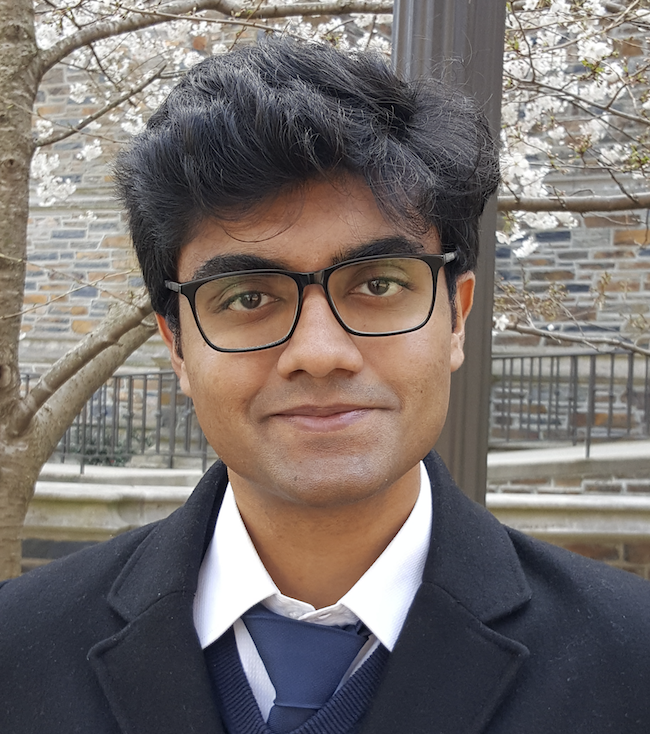
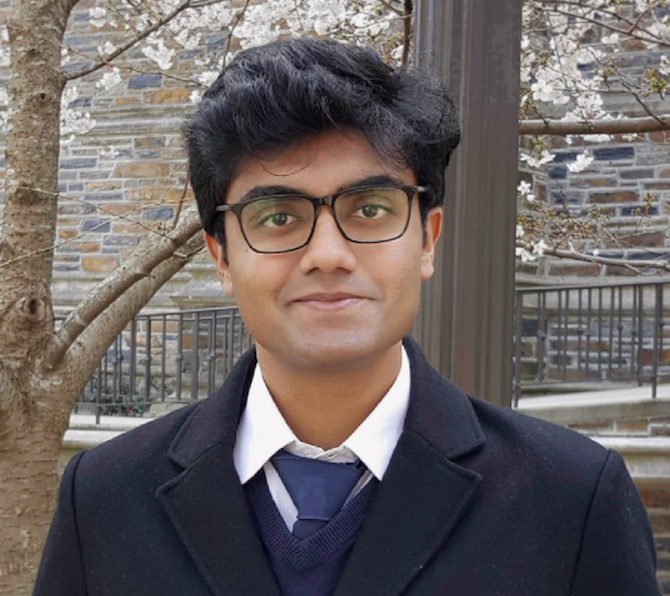
changed dp.

diff --git a/public/post/2015-07-23-r-rmarkdown/index.html b/public/post/2015-07-23-r-rmarkdown/index.html
@@ -651,7 +651,7 @@ Figure 1: A fancy pie chart.
   <div class="media author-card" itemscope itemtype="http://schema.org/Person">
     
       
-      <img class="portrait mr-3" src="/authors/admin/avatar_hud030da4b2acd3f8f5689e16afdfd07fa_951725_250x250_fill_q90_lanczos_center.jpg" itemprop="image" alt="Avatar">
+      <img class="portrait mr-3" src="/authors/admin/avatar_huee385cce7e1419cf141fee97b6d9f0ce_780583_250x250_fill_q90_lanczos_center.jpg" itemprop="image" alt="Avatar">
     
 
     <div class="media-body">

diff --git a/public/post/jupyter/index.html b/public/post/jupyter/index.html
@@ -677,7 +677,7 @@ rm Untitled.md
   <div class="media author-card" itemscope itemtype="http://schema.org/Person">
     
       
-      <img class="portrait mr-3" src="/authors/admin/avatar_hud030da4b2acd3f8f5689e16afdfd07fa_951725_250x250_fill_q90_lanczos_center.jpg" itemprop="image" alt="Avatar">
+      <img class="portrait mr-3" src="/authors/admin/avatar_huee385cce7e1419cf141fee97b6d9f0ce_780583_250x250_fill_q90_lanczos_center.jpg" itemprop="image" alt="Avatar">
     
 
     <div class="media-body">

diff --git a/public/post/first-data-visualization/index.html b/public/post/first-data-visualization/index.html
@@ -608,7 +608,7 @@
   <div class="media author-card" itemscope itemtype="http://schema.org/Person">
     
       
-      <img class="portrait mr-3" src="/authors/admin/avatar_hud030da4b2acd3f8f5689e16afdfd07fa_951725_250x250_fill_q90_lanczos_center.jpg" itemprop="image" alt="Avatar">
+      <img class="portrait mr-3" src="/authors/admin/avatar_huee385cce7e1419cf141fee97b6d9f0ce_780583_250x250_fill_q90_lanczos_center.jpg" itemprop="image" alt="Avatar">
     
 
     <div class="media-body">

diff --git a/public/post/getting-started/index.html b/public/post/getting-started/index.html
@@ -853,7 +853,7 @@
   <div class="media author-card" itemscope itemtype="http://schema.org/Person">
     
       
-      <img class="portrait mr-3" src="/authors/admin/avatar_hud030da4b2acd3f8f5689e16afdfd07fa_951725_250x250_fill_q90_lanczos_center.jpg" itemprop="image" alt="Avatar">
+      <img class="portrait mr-3" src="/authors/admin/avatar_huee385cce7e1419cf141fee97b6d9f0ce_780583_250x250_fill_q90_lanczos_center.jpg" itemprop="image" alt="Avatar">
     
 
     <div class="media-body">

diff --git a/public/project/external-project/index.html b/public/project/external-project/index.html
@@ -639,7 +639,7 @@
   <div class="media author-card" itemscope itemtype="http://schema.org/Person">
     
       
-      <img class="portrait mr-3" src="/authors/admin/avatar_hud030da4b2acd3f8f5689e16afdfd07fa_951725_250x250_fill_q90_lanczos_center.jpg" itemprop="image" alt="Avatar">
+      <img class="portrait mr-3" src="/authors/admin/avatar_huee385cce7e1419cf141fee97b6d9f0ce_780583_250x250_fill_q90_lanczos_center.jpg" itemprop="image" alt="Avatar">
     
 
     <div class="media-body">

diff --git a/public/project/internal-project/index.html b/public/project/internal-project/index.html
@@ -666,7 +666,7 @@
   <div class="media author-card" itemscope itemtype="http://schema.org/Person">
     
       
-      <img class="portrait mr-3" src="/authors/admin/avatar_hud030da4b2acd3f8f5689e16afdfd07fa_951725_250x250_fill_q90_lanczos_center.jpg" itemprop="image" alt="Avatar">
+      <img class="portrait mr-3" src="/authors/admin/avatar_huee385cce7e1419cf141fee97b6d9f0ce_780583_250x250_fill_q90_lanczos_center.jpg" itemprop="image" alt="Avatar">
     
 
     <div class="media-body">

diff --git a/public/publication/conference-paper/index.html b/public/publication/conference-paper/index.html
@@ -785,7 +785,7 @@
   <div class="media author-card" itemscope itemtype="http://schema.org/Person">
     
       
-      <img class="portrait mr-3" src="/authors/admin/avatar_hud030da4b2acd3f8f5689e16afdfd07fa_951725_250x250_fill_q90_lanczos_center.jpg" itemprop="image" alt="Avatar">
+      <img class="portrait mr-3" src="/authors/admin/avatar_huee385cce7e1419cf141fee97b6d9f0ce_780583_250x250_fill_q90_lanczos_center.jpg" itemprop="image" alt="Avatar">
     
 
     <div class="media-body">

diff --git a/public/publication/journal-article/index.html b/public/publication/journal-article/index.html
@@ -723,7 +723,7 @@
   <div class="media author-card" itemscope itemtype="http://schema.org/Person">
     
       
-      <img class="portrait mr-3" src="/authors/admin/avatar_hud030da4b2acd3f8f5689e16afdfd07fa_951725_250x250_fill_q90_lanczos_center.jpg" itemprop="image" alt="Avatar">
+      <img class="portrait mr-3" src="/authors/admin/avatar_huee385cce7e1419cf141fee97b6d9f0ce_780583_250x250_fill_q90_lanczos_center.jpg" itemprop="image" alt="Avatar">
     
 
     <div class="media-body">

diff --git a/public/publication/preprint/index.html b/public/publication/preprint/index.html
@@ -760,7 +760,7 @@
   <div class="media author-card" itemscope itemtype="http://schema.org/Person">
     
       
-      <img class="portrait mr-3" src="/authors/admin/avatar_hud030da4b2acd3f8f5689e16afdfd07fa_951725_250x250_fill_q90_lanczos_center.jpg" itemprop="image" alt="Avatar">
+      <img class="portrait mr-3" src="/authors/admin/avatar_huee385cce7e1419cf141fee97b6d9f0ce_780583_250x250_fill_q90_lanczos_center.jpg" itemprop="image" alt="Avatar">
     
 
     <div class="media-body">

diff --git a/public/talk/example/index.html b/public/talk/example/index.html
@@ -724,7 +724,7 @@
   <div class="media author-card" itemscope itemtype="http://schema.org/Person">
     
       
-      <img class="portrait mr-3" src="/authors/admin/avatar_hud030da4b2acd3f8f5689e16afdfd07fa_951725_250x250_fill_q90_lanczos_center.jpg" itemprop="image" alt="Avatar">
+      <img class="portrait mr-3" src="/authors/admin/avatar_huee385cce7e1419cf141fee97b6d9f0ce_780583_250x250_fill_q90_lanczos_center.jpg" itemprop="image" alt="Avatar">
     
 
     <div class="media-body">

diff --git a/public/authors/admin/index.html b/public/authors/admin/index.html
@@ -413,7 +413,7 @@
 
       
       
-      <img class="portrait" src="/authors/admin/avatar_hud030da4b2acd3f8f5689e16afdfd07fa_951725_250x250_fill_q90_lanczos_center.jpg" itemprop="image" alt="Avatar">
+      <img class="portrait" src="/authors/admin/avatar_huee385cce7e1419cf141fee97b6d9f0ce_780583_250x250_fill_q90_lanczos_center.jpg" itemprop="image" alt="Avatar">
       
 
       <div class="portrait-title">

diff --git a/public/index.html b/public/index.html
@@ -451,7 +451,7 @@
 
       
       
-      <img class="portrait" src="/authors/admin/avatar_hud030da4b2acd3f8f5689e16afdfd07fa_951725_250x250_fill_q90_lanczos_center.jpg" itemprop="image" alt="Avatar">
+      <img class="portrait" src="/authors/admin/avatar_huee385cce7e1419cf141fee97b6d9f0ce_780583_250x250_fill_q90_lanczos_center.jpg" itemprop="image" alt="Avatar">
       
 
       <div class="portrait-title">
